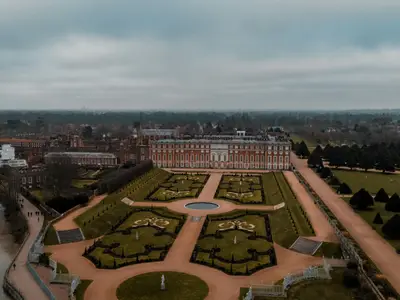
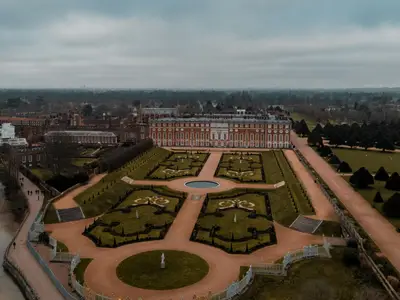
Tudors: crop further down, eliminate sky

diff --git a/england.html b/england.html
@@ -626,7 +626,7 @@ img{max-width:100%;display:block}
 
       <a href="/england/the-tudors" class="history-card reveal" style="transition-delay:0s">
         <div class="hc-image">
-          <img src="/img/en/the-tudors.webp?v=4" alt="The Tudors" loading="lazy" width="800" height="600" onerror="this.parentElement.style.background='linear-gradient(135deg,#1d2a47,#2d1f1f)'">
+          <img src="/img/en/the-tudors.webp?v=5" alt="The Tudors" loading="lazy" width="800" height="600" onerror="this.parentElement.style.background='linear-gradient(135deg,#1d2a47,#2d1f1f)'">
           <span class="hc-date">1485-1603</span>
         </div>
         <div class="hc-body">
